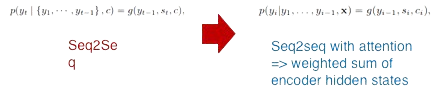
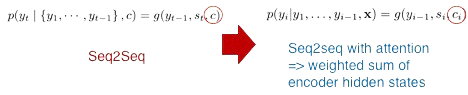
update contents

diff --git a/_posts/paper_review/2022-01-11-paper_review_attention.md b/_posts/paper_review/2022-01-11-paper_review_attention.md
@@ -54,5 +54,70 @@ SMT와 다르게 NMT는 유지보수가 굉장히 용이하죠. 데이터만 있
 
 ## Learning To Align and Translate
 
+이 논문은 Alignment 개념을 도입했는데 이는 추후에 우리가 잘 알고 있는 Attention이라고 부르게 됩니다. 목표는 명확합니다. Seq2Seq 모델의 Bottleneck 문제를 해결하는 것이죠. 사람에 비유해서 표현을 하자면, Seq2Seq 모델은 Source text 한 번 읽은 다음 기억에 의존해서 번역을 진행하는 것이라면 Attention은 번역을 진행하는 동안에도 계속 Source text를 보고 참고해서 번역을 진행하는 것이라고 보면 됩니다. 
+
+<p align="center" style="color:gray; font-size:0.5em">
+  <img src="{{ site.url }}{{ site.baseurl }}/assets/images/paper_review/22.01.11/7.png" style="padding: 0;margin:0;"><br>
+  출처: "https://web.stanford.edu/class/archive/cs/cs224n/cs224n.1194/slides/cs224n-2019-lecture08-nmt.pdf"
+</p>
+<br>
+위의 그림을 보면, 좌측 Seq2Seq 모델에서 Context vector c는 상수 인데 반해 우측 attention을 적용한 Seq2Seq 모델에서 Context vector는 c<sub>i</sub>로 변수인 것을 확인할 있습니다. 
+
+<p align="center" style="color:gray; font-size:0.5em">
+  <img src="{{ site.url }}{{ site.baseurl }}/assets/images/paper_review/22.01.11/8.1.png" style="padding: 0;margin:0;"><br>
+  출처: "https://arxiv.org/pdf/1409.0473.pdf"
+</p>
+
+Attention은 쉽게 말해서 원하는 결과와 가장 연관이 높은 요소를 찾는 과정이라고 보시면 됩니다. Query, Key, Value들의 연산으로 이루어져 있는데요. 여기서 Query는 연관성을 구하는 데 어떠한 기준이고, Key와 Value는 그 기준에 맞춰 연관성을 구해야하는 요소들이라고 보시면 됩니다. 위의 그림 우른쪽 사진을 예로 들었을 때, Qeury는 디코딩 시 이전 hidden state 값이고, Key와 Value는 Encoder의 hidden state 값들이라고 할 수 있습니다. 각각의 tiemstep별 디코딩을 진행할 떄, 이전 hidden state 값들과 Encoder의 hidden state 값들과의 연과성을 구해 이번 timestep의 결과가 source sentence의 어떤 단어와 연관이 가장 높은지 계산하는 것으로 이해하시면 되겠습니다.
+
+Attention은 세 가지 과정을 통해서 구해지게 된다. 첫 번째는 Attention score를 구하는 과정, 두 번째는 Attention weight을 구하는 과정이고 마지막으로 최종 Context vector를 구하는 과정이다. 
+
+1. Attention score<br>
+  Attention score는 말 그대로, Query와 Key 간의 연관성을 의미한다. 연관성을 구하는 방법은 따로 정해지진 않고 내적, 더하기 혹은 따로 neural network로 구성하는 등 다양하게 존재한다. 이 논문에서는 Query와 Key간의 가중치 합으로 Attention score를 구하는 데 학습을 통해 가중치들을 업데이트하는 neural network 방법을 활용한다.
+  <p align="center" style="color:gray; font-size:0.5em">
+    <img src="{{ site.url }}{{ site.baseurl }}/assets/images/paper_review/22.01.11/10.png" style="padding: 0;margin:0;"><br>
+    출처: "https://arxiv.org/pdf/1409.0473.pdf"
+  </p>
+2. Attention weight<br>
+  Attention weight은 Softmax 함수를 활용해서 Attention score들의 합이 1이 되게 끔, 비율적인 측면으로 변형 시켜줍니다.
+
+3. Context vector<br>
+  이전 단계에서 구한 Attention weight을 Value인 Encoder의 Hidden state 값들과 가중치 합을 해 구해지게 됩니다. timestep 별로 가장 관련이 높은 Encoder의 Hidden state 값이 반연된 Context vector가 생성되게 됩니다.
+
+<p align="center" style="color:gray; font-size:0.5em">
+  <img src="{{ site.url }}{{ site.baseurl }}/assets/images/paper_review/22.01.11/0.gif" style="padding: 0;margin:0;"><br>
+  출처: "https://arxiv.org/pdf/1409.0473.pdf"
+</p>
+
+위 그림처럼, 디코딩시 각 timestep별로 서로 다른 attention weight (attention distribution)이 구해지는 것을 확인할 수 있고 이를 통해 서로 다른 Context vector가 디코딩 결과에 영향을 주게 됩니다.
+
 ## Experiments & Result
 
+1. Dataset<br>
+  [WMT`14](https://huggingface.co/datasets/wmt14)는 348M 개의 단어로 구성된 corpus 데이터 셋입니다. Europarl, news commentary, UN 데이터 셋과 두 개의 크롤링된 corpora로 구성되어 있습니다.
+
+2. Experiment<br>
+  * Seq2Seq model vs Seq2Seq with attn model
+  * 1000 hidden units
+  * Bi-directional
+  * 30 words and 50 words training
+  * BLEU score를 활용해 성능 평가 
+
+3. Result<br>
+  <p align="center" style="color:gray; font-size:.5em">
+    <img src="{{ site.url }}{{ site.baseurl }}/assets/images/paper_review/22.01.11/12.png" style="padding: 0;margin:0;"><br>
+    출처: "https://arxiv.org/pdf/1409.0473.pdf"
+  </p>
+
+  RNNencdec는 기존 Seq2Seq 모델, RNNsearch는 Seq2Seq with attn 모델, Moses는 SMT 모델을 나타냅니다. 위 표의 결과를 봤을 때, 우선 30 words와 50 words로 훈련한 모델에서 Attention 모델이 Seq2Seq모델에 비해 높은 성능을 보였습니다. 이는 Attention의 효과를 입증하는 것이라고 볼 수 있습니다. 또한 Moses SMT와 비교했을 때, (RNNsearch-50 보다 더 많이 훈련된) RNNsearch-50<sup>*</sup>이 높은 성능을 보이는 것을 확인할 수 있습니다.
+  
+  <p align="center" style="color:gray; font-size:0.5em">
+    <img src="{{ site.url }}{{ site.baseurl }}/assets/images/paper_review/22.01.11/13.png" style="padding: 0;margin:0;"><br>
+    출처: "https://arxiv.org/pdf/1409.0473.pdf"
+  </p>
+
+  위 왼쪽 그림은 Attention weight을 heatmap으로 표현한 것인데요. 하얀색일 수록 높은 연관이 있음을 나타냅니다. 대각선 이외에도 하얀 부분이 나타나있는 것을 확인할 수 있습니다. 이는 position에 dependent한 것이 아니라 실제로 모델이 연관된 단어들을 찾아내도록 훈련이 진행되는 것을 알 수 있습니다. 오른쪽 그림은 문장이 길어질 수록 Seq2Seq 모델의 성능이 떨어지지만 Attention을 적용한 모델은 성능을 유지하는 것을 나타냅니다. 이를 통해 기존의 긴 문장에서 나타나는 Bottlenect 문제가 해결이 된다는 것을 확인할 수 있죠.
+  
+  ---
+
+  지금까지 Attention mechanism을 도입한 **Neural Machine Translation by Jointly Learning to Align and Translate** 논문에 대해서 살펴보았습니다. 이후에는 Transformer를 시작으로 BERT 등의 다양한 Large scale의 Pre-trained 모델에 대한 논문을 살펴볼 예정입니다. NLP 위주로 논문을 리뷰할 예정이지만 공부를 하다가 흥미로운 논문이나 중요한 논문이 있으면 리뷰하도록 하겠습니다.
